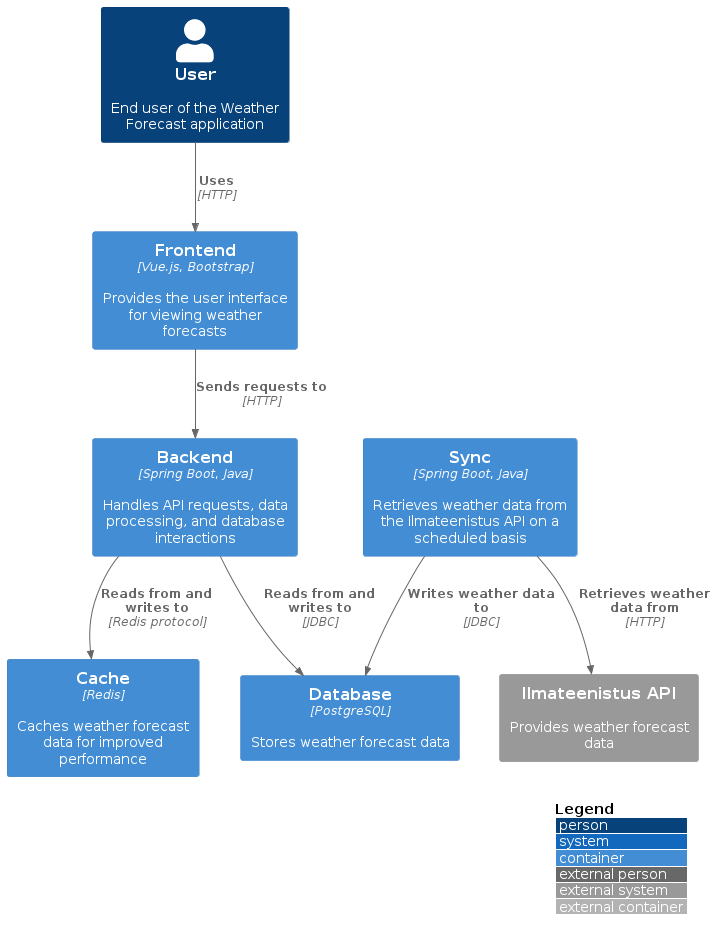
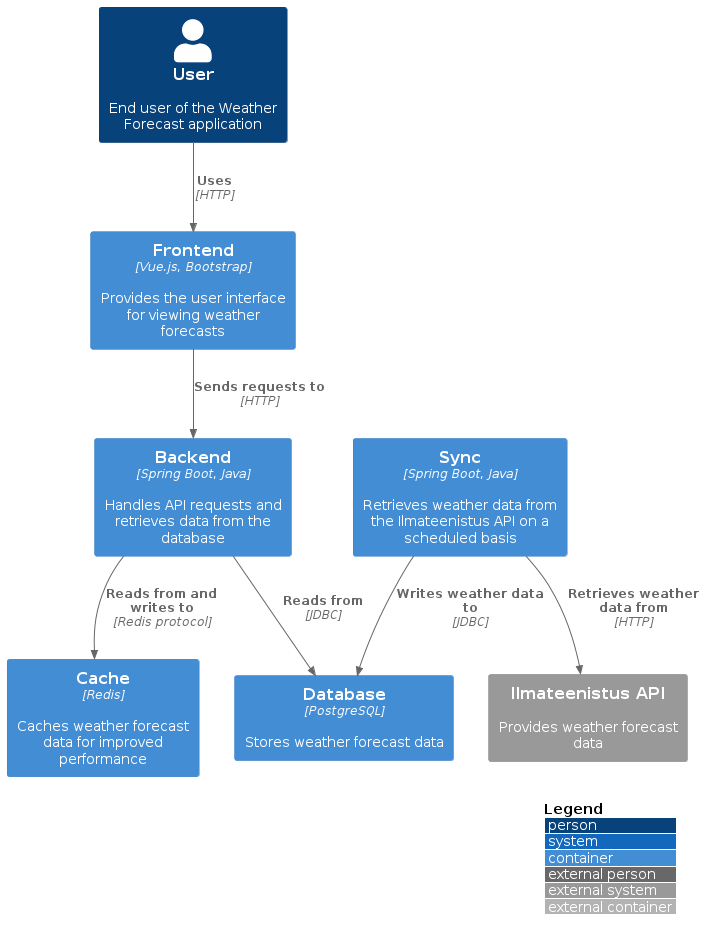
Remove unnecessary code block delimiters and refine backend-container description

diff --git a/screenshots/architecture.md b/screenshots/architecture.md
@@ -1,4 +1,3 @@
-```
 @startuml
 !include https://raw.githubusercontent.com/plantuml-stdlib/C4-PlantUML/master/C4_Container.puml
 
@@ -7,7 +6,7 @@ LAYOUT_WITH_LEGEND()
 Person(user, "User", "End user of the Weather Forecast application")
 
 Container(frontend, "Frontend", "Vue.js, Bootstrap", "Provides the user interface for viewing weather forecasts")
-Container(backend, "Backend", "Spring Boot, Java", "Handles API requests, data processing, and database interactions")
+Container(backend, "Backend", "Spring Boot, Java", "Handles API requests and retrieves data from the database")
 Container(database, "Database", "PostgreSQL", "Stores weather forecast data")
 Container(cache, "Cache", "Redis", "Caches weather forecast data for improved performance")
 Container(sync, "Sync", "Spring Boot, Java", "Retrieves weather data from the Ilmateenistus API on a scheduled basis")
@@ -16,9 +15,8 @@ System_Ext(ilmateenistus, "Ilmateenistus API", "Provides weather forecast data")
 
 Rel(user, frontend, "Uses", "HTTP")
 Rel(frontend, backend, "Sends requests to", "HTTP")
-Rel(backend, database, "Reads from and writes to", "JDBC")
+Rel(backend, database, "Reads from", "JDBC")
 Rel(backend, cache, "Reads from and writes to", "Redis protocol")
 Rel(sync, ilmateenistus, "Retrieves weather data from", "HTTP")
 Rel(sync, database, "Writes weather data to", "JDBC")
 @enduml
-```
